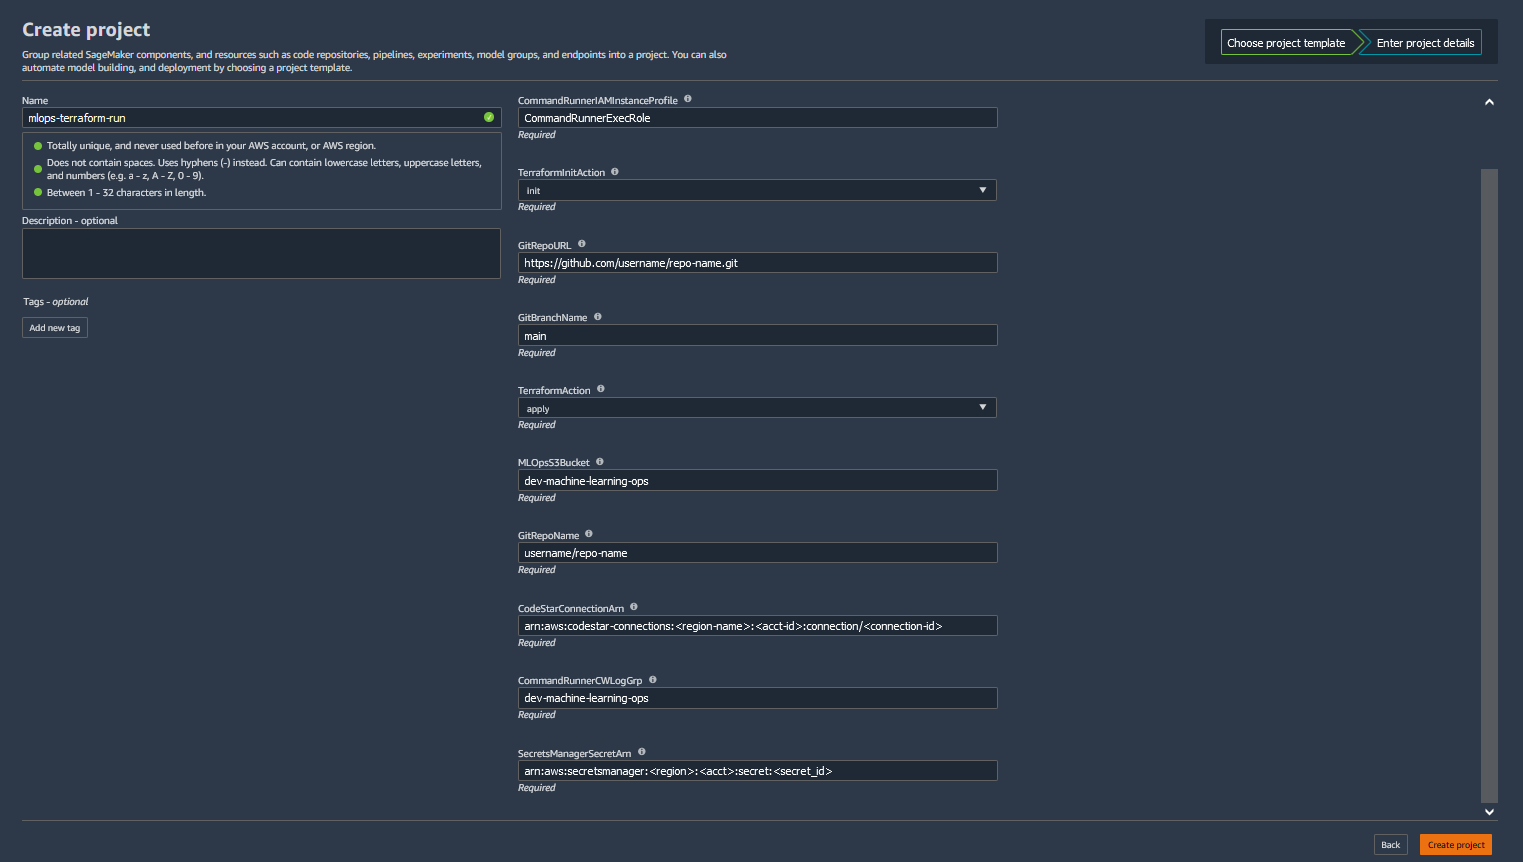
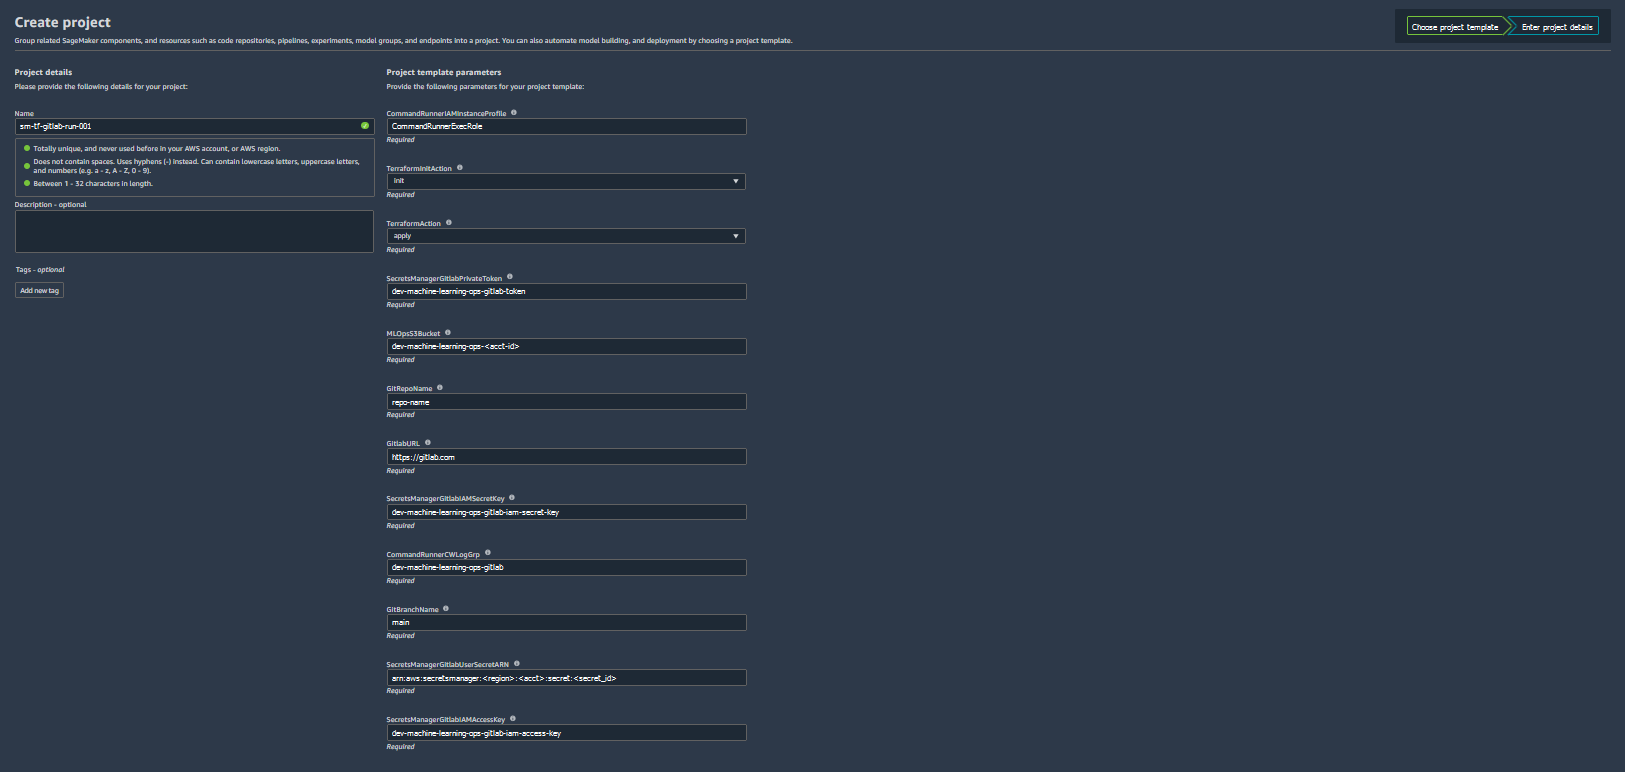
ReadMe Image Updates

diff --git a/README.md b/README.md
@@ -10,6 +10,8 @@ This repository contains an example SageMaker Project template. Each folder in t
 * [Batch Inference Endpoint Deployment Pipeline](../../tree/main/batch-inference)
 * [Multi Model Endpoint Deployment Pipeline](../../tree/main/multi-model-endpoint)
 * [Amazon SageMaker Project with Terraform and GitHub](../../tree/main/sm-project-tf-github)
+* [Amazon SageMaker Project with Terraform and GitLab](../../tree/main/sm-project-tf-gitlab)
+
 
 ## Adding the templates to SageMaker Studio Studio
 In order to add your custom SageMaker Projects into SageMaker studio and deploy them, you will need to complete 3 steps:
